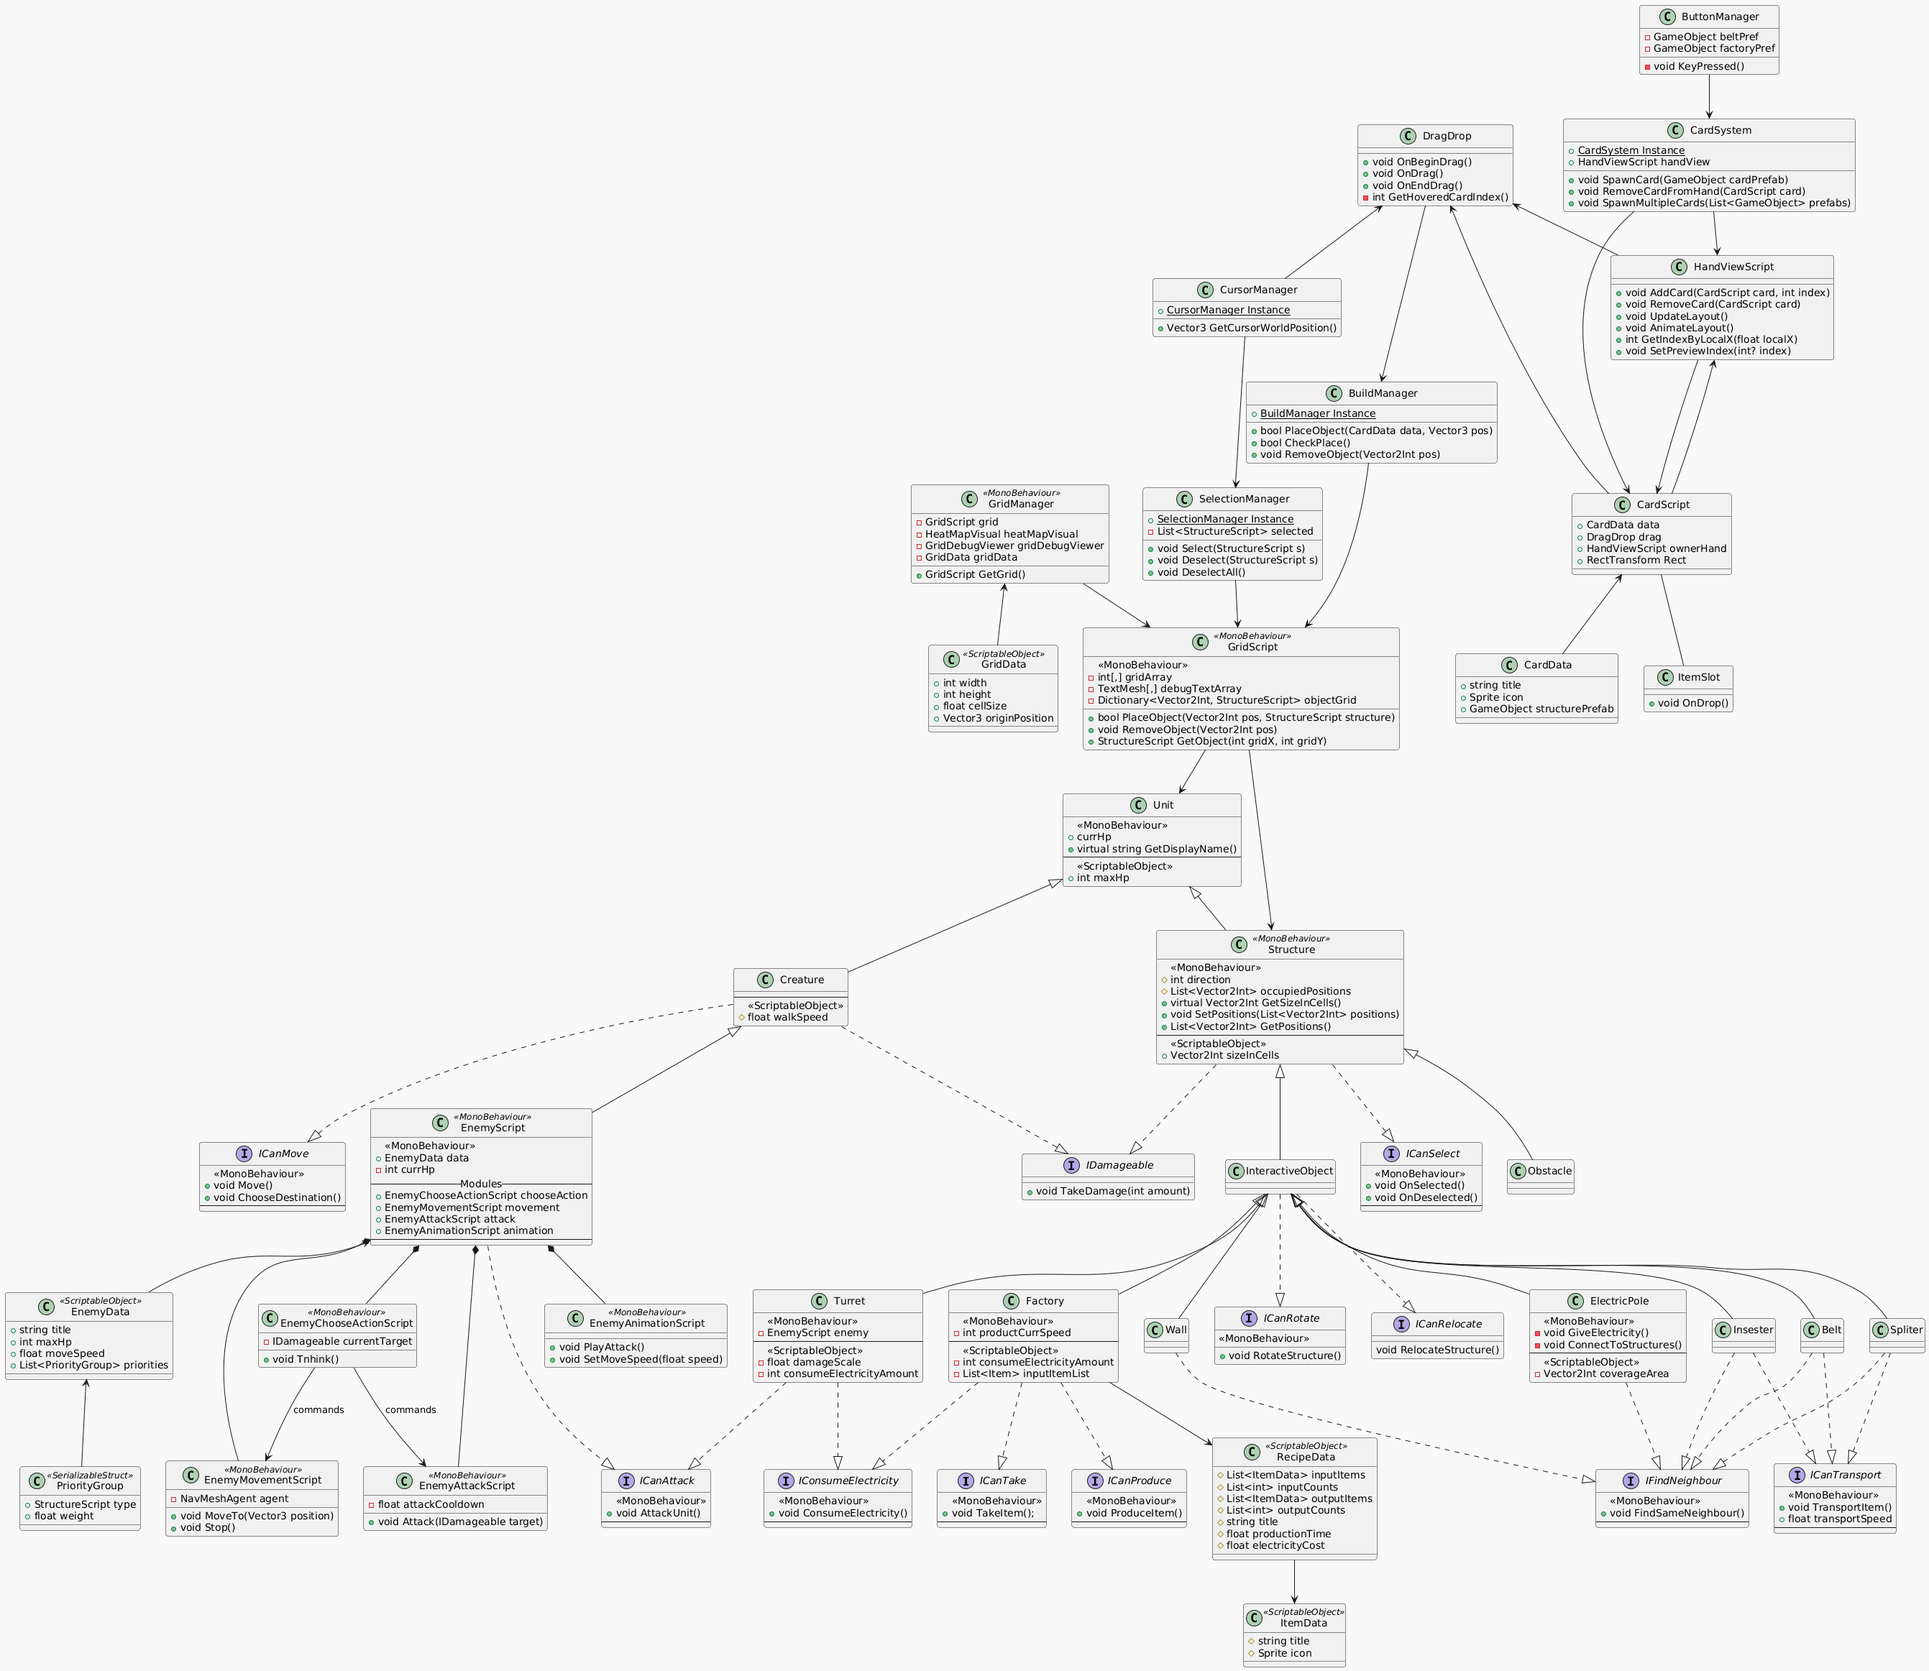
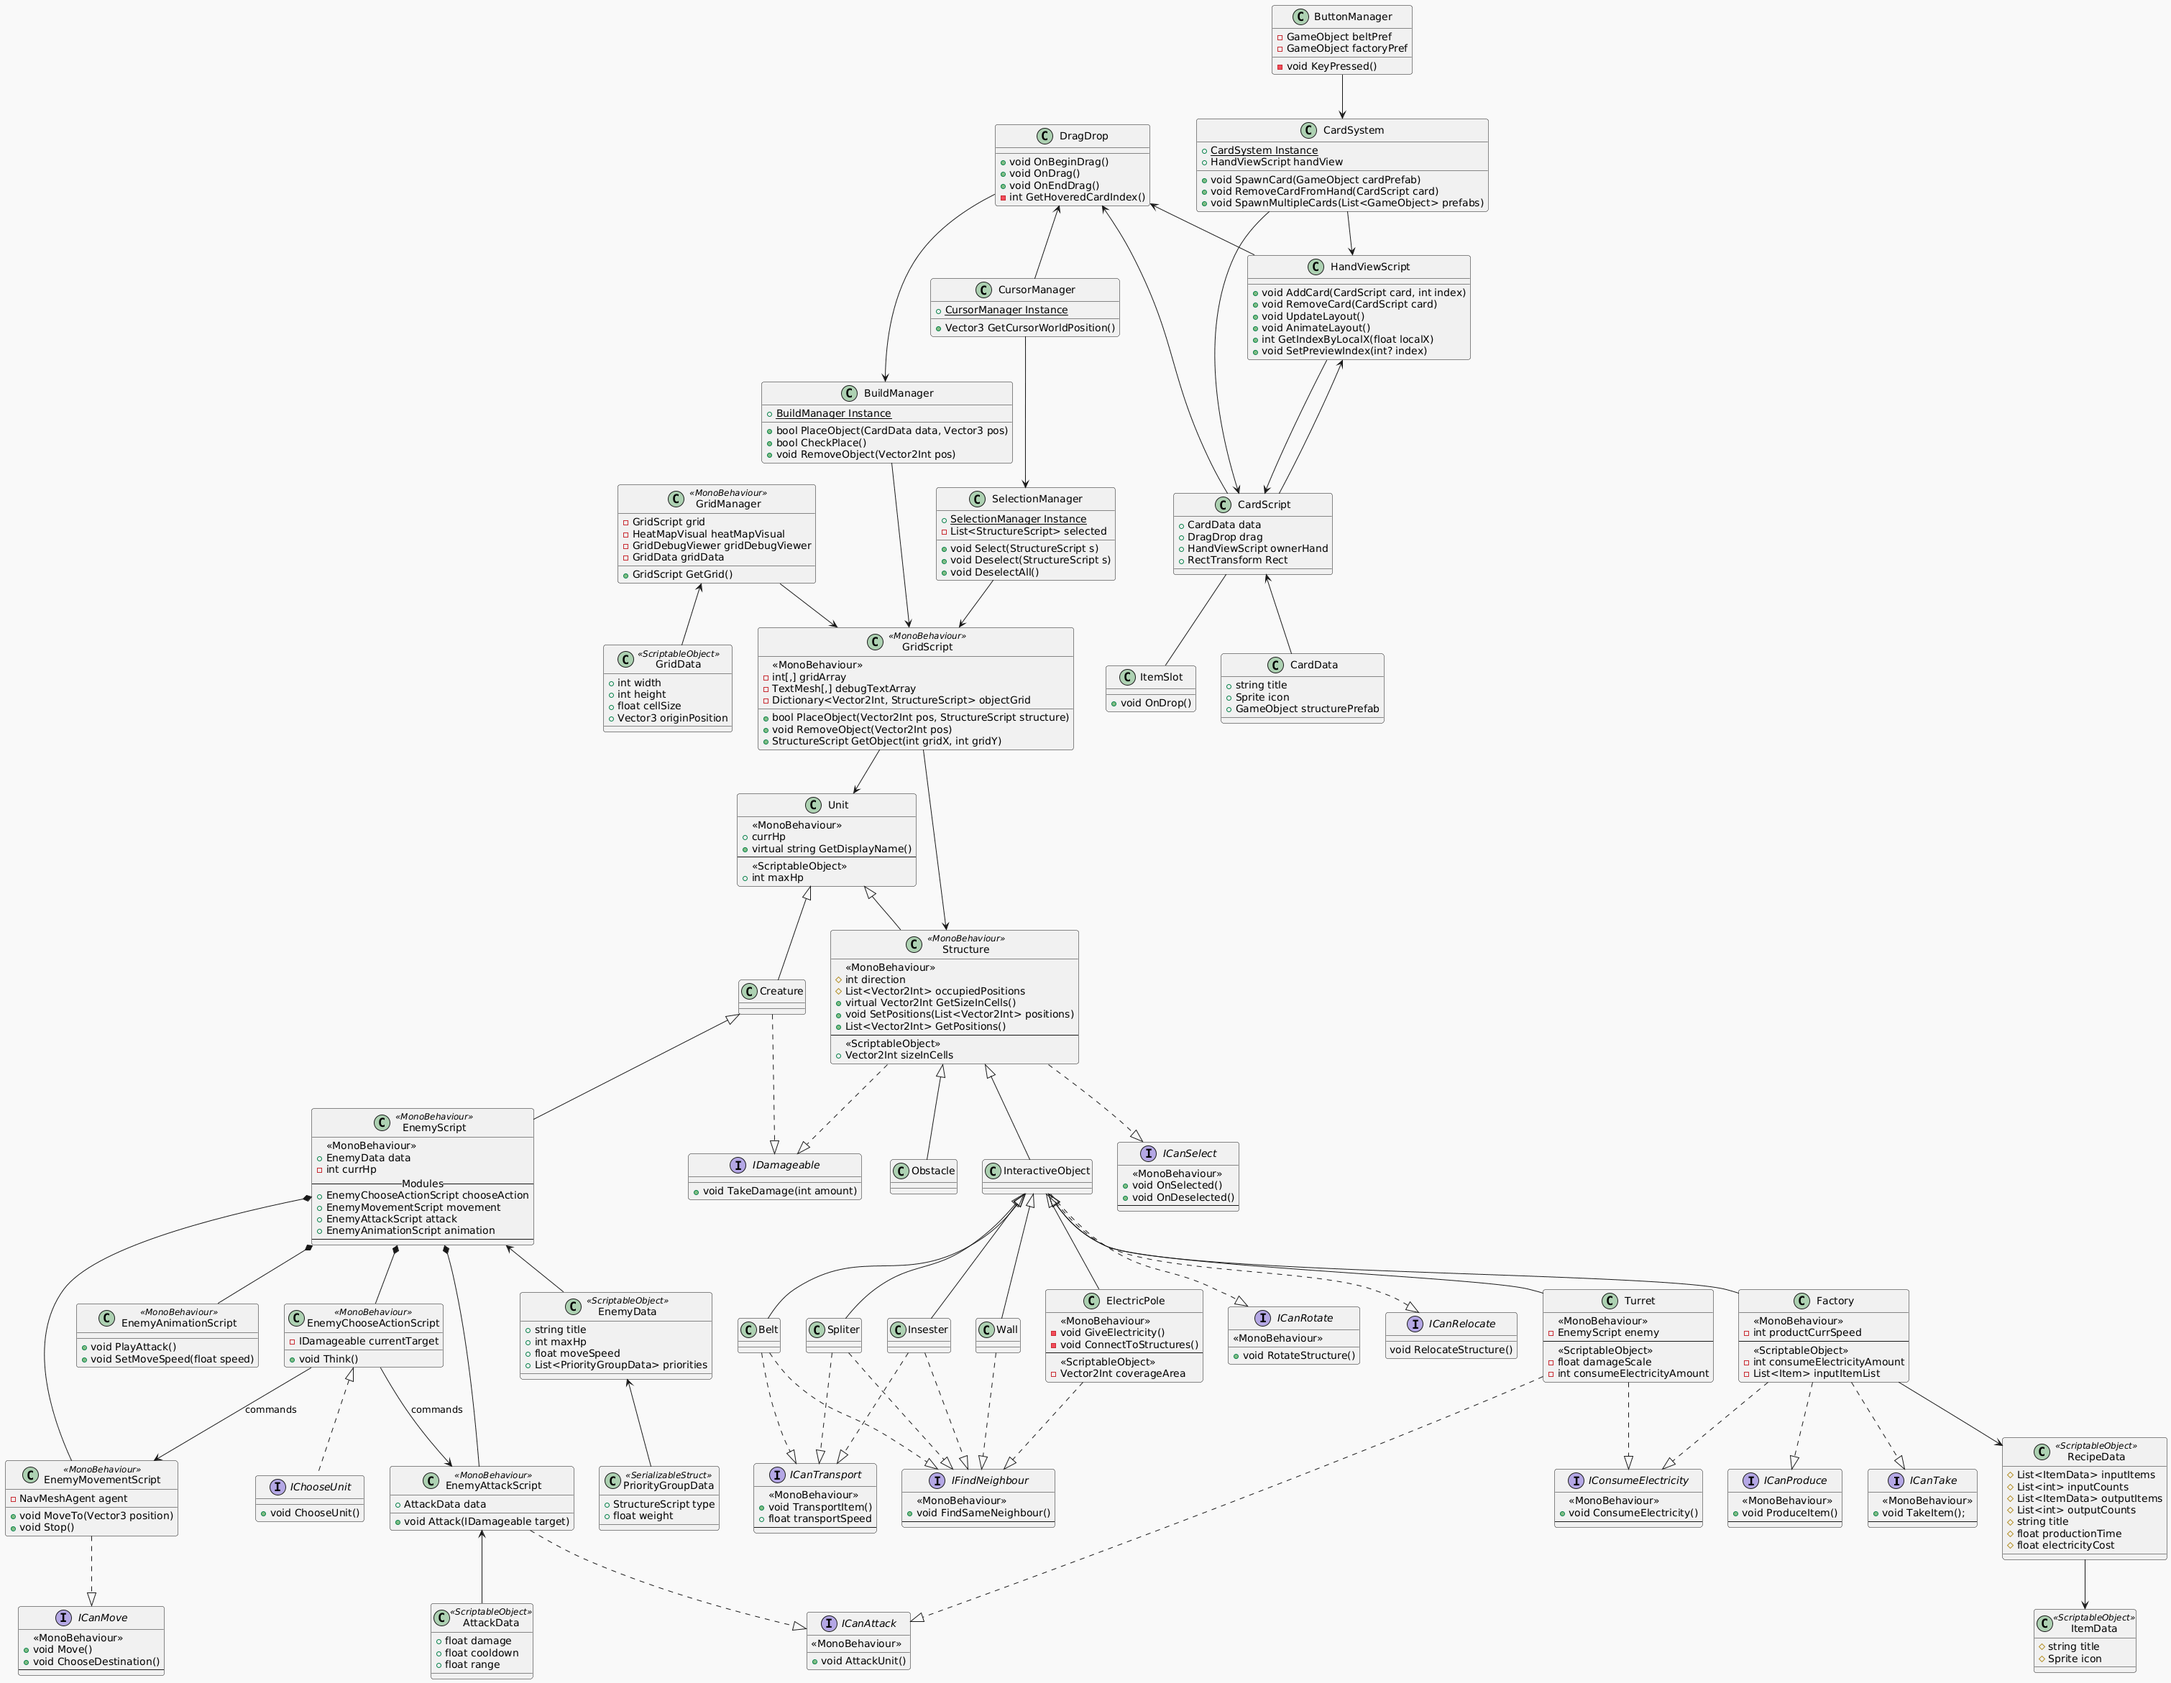
refactor: implement enemy module architecture and priority data structures

diff --git a/Assets/ScriptableObjects/Unit/Creature/Script/EnemyScript.cs b/Assets/ScriptableObjects/Unit/Creature/Script/EnemyScript.cs
@@ -1,31 +1,20 @@
 using Unity.VisualScripting;
 using UnityEngine;
 
-public class EnemyScript : MonoBehaviour, ICanAttack
+public class EnemyScript : MonoBehaviour
 {
-    [SerializeField] private EnemyData data;
-
     private int currHp;
+    
+    [SerializeField] private EnemyData data;
 
     void Start()
     {
         currHp = data.maxHp;
     }
 
-    public void Move()
-    {
-        Debug.Log("Move() called from EnemyScript");
-    }
-    public void ChoosePlaceToMove()
-    {
-        Debug.Log("ChoosePlaceToMove() called from EnemyScript");
-    }
-    public void AttackUnit()
-    {
-        Debug.Log("AttackUnit() called from EnemyScript");
-    }
-    public void ChooseUnit()
-    {
-        Debug.Log("ChooseUnit() called from EnemyScript");
-    }
+    EnemyChooseActionScript chooseAction;
+    EnemyMovementScript movement;
+    EnemyAttackScript attack;
+    EnemyAnimationScript animation;
+
 }

diff --git a/Assets/ScriptableObjects/Unit/Structures/Script/StructureScript.cs b/Assets/ScriptableObjects/Unit/Structures/Script/StructureScript.cs
@@ -1,7 +1,7 @@
 using System.Collections.Generic;
 using UnityEngine;
 
-public class StructureScript : UnitScript, ICanSelect, IDamageable
+public class StructureScript : UnitScript, ICanSelect
 {
     [SerializeField] protected int direction = 1;
     [SerializeField] protected List<Vector2Int> occupiedPositions = new List<Vector2Int>();
@@ -29,10 +29,6 @@ public class StructureScript : UnitScript, ICanSelect, IDamageable
     public void OnDeselected()
     {
         //Debug.Log("OnDeselected() called from StructureScript");
-    }
-    public void TakeDamage(int amount)
-    {
-        Debug.Log("TakeDamage() called from StructureScript");
     }
 
 }

diff --git a/Assets/ScriptableObjects/Unit/Creature/Data/EnemyData.cs b/Assets/ScriptableObjects/Unit/Creature/Data/EnemyData.cs
@@ -1,10 +1,11 @@
 using UnityEngine;
+using System.Collections.Generic;
 
-[CreateAssetMenu(fileName = "Enemy", menuName = "Scriptable Objects/Enemies/Enemy")]
+[CreateAssetMenu(fileName = "Enemy", menuName = "Scriptable Objects/Enemy/Enemy")]
 public class EnemyData : ScriptableObject
 {
     public string title = "unknown enemy";
-    public int maxHp = 600;
+    public int maxHp;
     public float moveSpeed;
-    public float attackSpeed;
+    List<PriorityGroupData> priorities;
 }

diff --git a/Assets/ScriptableObjects/Unit/UnitScript.cs b/Assets/ScriptableObjects/Unit/UnitScript.cs
@@ -1,8 +1,18 @@
 using UnityEngine;
 
-public class UnitScript : MonoBehaviour
+public class UnitScript : MonoBehaviour, IDamageable
 {
     [SerializeField] protected int currHp = 1;
+
+    public virtual void TakeDamage(int amount)
+    {
+        currHp -= amount;
+        if (currHp <= 0) Die();
+    }
+    protected virtual void Die()
+    {
+        Destroy(gameObject);
+    }
 
     public virtual string GetDisplayName()
     {

diff --git a/Assets/ScriptableObjects/Unit/Creature/Script/CreatureScript.cs b/Assets/ScriptableObjects/Unit/Creature/Script/CreatureScript.cs
@@ -1,15 +1,8 @@
 using UnityEngine;
 
-public class CreatureScript : UnitScript, ICanMove, IDamageable
+public class CreatureScript : UnitScript
 {
-    public void Move()
-    {
-        Debug.Log("Move() called from CreatureScript");
-    }
-    public void ChoosePlaceToMove()
-    {
-        Debug.Log("Move() called from CreatureScript");
-    }
+    
 
     public void TakeDamage(int amount)
     {

diff --git a/Assets/ScriptableObjects/Unit/Attack/AtackData.cs b/Assets/ScriptableObjects/Unit/Attack/AtackData.cs
@@ -1,0 +1,10 @@
+using UnityEngine;
+
+[CreateAssetMenu(fileName = "Attack", menuName = "Scriptable Objects/Attack/Attack")]
+public class AtackData : ScriptableObject
+{
+    [Header("General")]
+    public float damage = 10f;
+    public float cooldown = 1f;
+    public float range = 1.5f;
+}

diff --git a/Assets/ScriptableObjects/Unit/Creature/Script/EnemyChooseActionScript.cs b/Assets/ScriptableObjects/Unit/Creature/Script/EnemyChooseActionScript.cs
@@ -1,0 +1,10 @@
+using UnityEngine;
+
+public class EnemyChooseActionScript : MonoBehaviour, ICanChooseUnit
+{
+    
+    public void ChooseUnit()
+    {
+        Debug.Log("ChooseUnit() called from EnemyChooseActionScript");
+    }
+}

diff --git a/Assets/ScriptableObjects/Unit/Creature/Script/EnemyAttackScript.cs b/Assets/ScriptableObjects/Unit/Creature/Script/EnemyAttackScript.cs
@@ -1,0 +1,11 @@
+using UnityEngine;
+
+public class EnemyAttackScript : MonoBehaviour, ICanAttack
+{
+
+
+    public void AttackUnit()
+    {
+        Debug.Log("AttackUnit() called from EnemyAttackScript");
+    }
+}

diff --git a/Assets/ScriptableObjects/Unit/Creature/Script/EnemyMovementScript.cs b/Assets/ScriptableObjects/Unit/Creature/Script/EnemyMovementScript.cs
@@ -1,0 +1,11 @@
+using UnityEngine;
+
+public class EnemyMovementScript : MonoBehaviour, ICanMove
+{
+    
+
+    public void Move()
+    {
+        Debug.Log("Move() called from EnemyMovementScript");
+    }
+}

diff --git a/Assets/ScriptableObjects/Unit/Creature/Data/PriorityGroupData.cs b/Assets/ScriptableObjects/Unit/Creature/Data/PriorityGroupData.cs
@@ -1,0 +1,9 @@
+using System;
+using UnityEngine;
+
+[System.Serializable]
+public class PriorityGroupData
+{
+    public StructureScript targetType;
+    public float weight;
+}

diff --git a/Assets/ScriptableObjects/Unit/Attack/ICanAttack.cs b/Assets/ScriptableObjects/Unit/Attack/ICanAttack.cs
@@ -3,5 +3,4 @@ using UnityEngine;
 public interface ICanAttack
 {
     public void AttackUnit();
-    public void ChooseUnit();
 }

diff --git a/Assets/ScriptableObjects/Unit/Creature/Interface/ICanMove.cs b/Assets/ScriptableObjects/Unit/Creature/Interface/ICanMove.cs
@@ -3,5 +3,4 @@ using UnityEngine;
 public interface ICanMove
 {
     public void Move();
-    public void ChoosePlaceToMove();
 }
